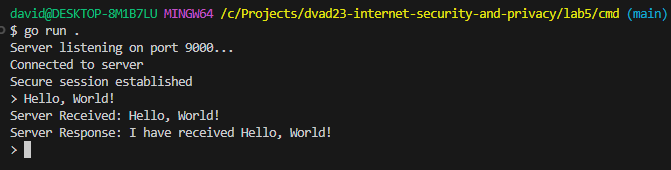
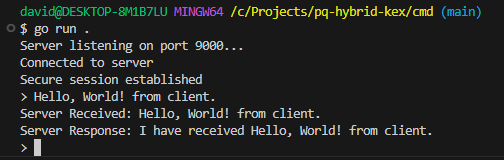
docs: add demo output image and update README phrasing

Changed region(s): [[0.0, 0.3438, 0.8631, 0.9688], [0.0, 0.0312, 1.0, 0.2188], [0.0, 0.25, 0.4762, 0.3438]]

diff --git a/README.md b/README.md
@@ -9,7 +9,7 @@
 
 ## The problem: harvest now, decrypt later
 
-An adversary can record encrypted traffic today and keep it until large-scale quantum computers are available. This is the **Harvest Now, Decrypt Later** threat. RSA and conventional elliptic-curve key exchange such as ECDH rely on mathematical problems that Shor’s algorithm can solve efficiently on a quantum computer. Recorded sessions whose secrets were protected only by those systems could then be decrypted.
+An adversary can record encrypted traffic today and keep it until quantum computers are available. This is the **Harvest Now, Decrypt Later** threat. RSA and conventional elliptic-curve key exchange such as ECDH rely on mathematical problems that Shor’s algorithm can solve efficiently on a quantum computer. Recorded sessions whose secrets were protected only by those systems could then be decrypted.
 
 ## Why hybrid key exchange?
 
@@ -22,7 +22,7 @@ The demo concatenates both 32-byte secrets as input key material and applies HKD
 
 ## Why AES-256?
 
-Grover’s algorithm offers a quadratic speedup against brute-force symmetric keys. As a rough security-level rule, AES-128’s 128-bit classical brute-force margin becomes about 64 bits against a quantum search, while AES-256 retains about 128 bits. This demo therefore uses AES-256-GCM: 256-bit encryption keys plus authenticated encryption. Grover’s algorithm is not a structural break of AES, and its practical impact depends on fault-tolerant quantum resources; the security-level comparison explains the conservative key-size choice.
+Grover’s algorithm is a quadratic speedup against brute-force symmetric keys. As a rough security-level rule, AES-128’s 128-bit classical brute-force margin becomes about 64 bits against a quantum search, while AES-256 has about 128 bits. This demo uses AES-256-GCM: 256-bit encryption keys plus authenticated encryption.
 
 ## Protocol flow
 
